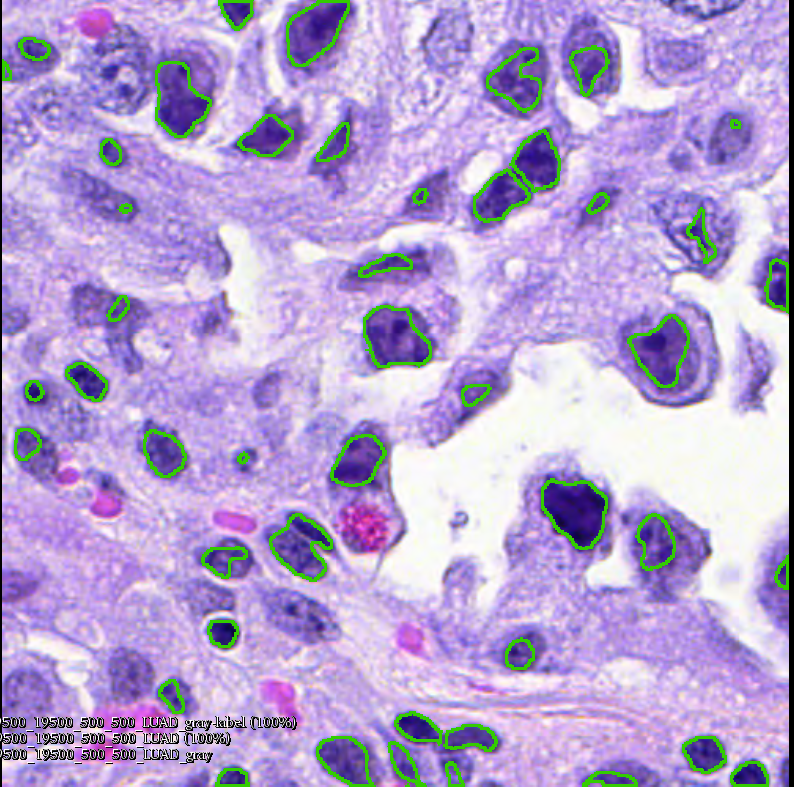
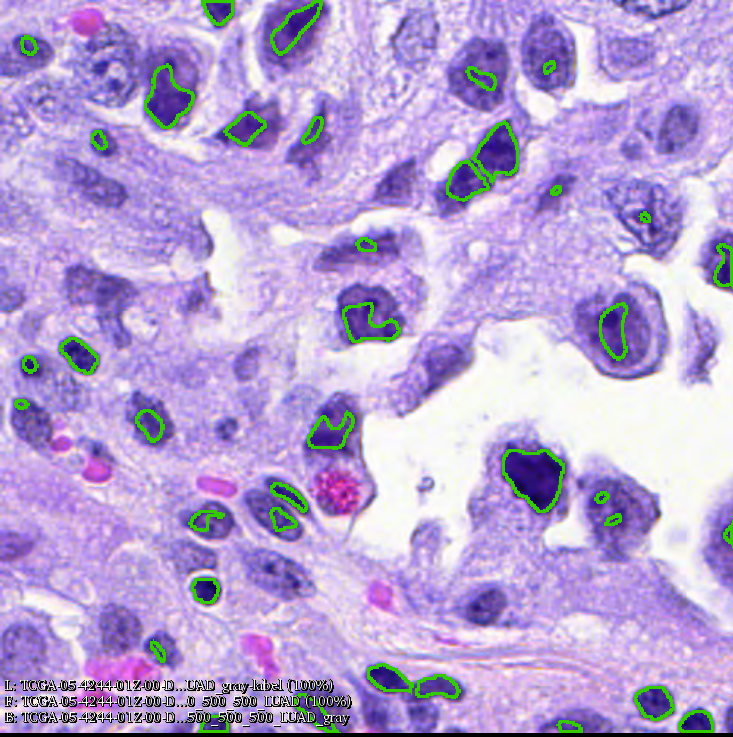
re-ran 'undersegment' algorithm

diff --git a/experiment/02/ex.html b/experiment/02/ex.html
@@ -109,7 +109,7 @@
             "curvatureWeight": 8.0,
             "kernelSize": 20.0,
             "mpp": 0.25,
-            <font color="red">"otsuRatio": 0.6000000000000001,</font>
+            <font color="red">"otsuRatio": 0.5,</font>
             "sizeThld": 3.0,
             "sizeUpperThld": 50.0
         }
